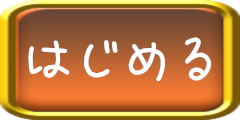
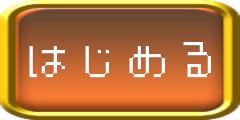
スタートボタンを作成

diff --git a/src/scenes/Title.ts b/src/scenes/Title.ts
@@ -1,16 +1,17 @@
 import { GameObjects, Scene } from 'phaser';
 import { H, W } from 'functions/DOM/windowInfo';
 import { sceneKeys } from 'scenes/sceneKeys';
-import { hints } from 'classes/exam';
 import logo from '@/images/titleimage.jpg';
 import button from '@/images/button.png';
 import buttonOnHover from '@/images/button_onhover.png';
 
+import buttonFrame from '@/images/button/button_frame.png';
+import buttonFrameDark from '@/images/button/button_frame_dark.png';
+import buttonNoFrame from '@/images/button/button_noFrame.png';
+import buttonOnClick from '@/images/button/button_onClick.png';
+
 export class Title extends Scene {
-  private backgroundColor: string = '#300000';
-  private backgroundColor2: string = '#BDBDFD';
-  private span: number = 1;
-  private flash: number = 1;
+  private backgroundColor: string = '#111111';
   private button?: GameObjects.Image;
 
   constructor() {
@@ -19,8 +20,9 @@ export class Title extends Scene {
 
   preload() {
     this.load.image('logo', logo);
-    this.load.image('button', button);
-    this.load.image('button_onhover', buttonOnHover);
+    this.load.image('button', buttonFrame);
+    this.load.image('button_onhover', buttonFrameDark);
+    this.load.image('button_onclick', buttonOnClick);
   }
 
   create() {
@@ -37,14 +39,9 @@ export class Title extends Scene {
     this.time.addEvent({
       delay: 3000,
       callback: () => {
-        // this.add.rectangle(0, height - height / 2, width * 10, height, 0x000);
-        this.add.rectangle(0, height, width * 2, 300, 0x000);
         // 座標の中心を指定
         this.button = this.add.image(0, 0, 'button');
-        this.button.setPosition(
-          width - this.button.width,
-          height - this.button.height / 2,
-        );
+        this.button.setPosition(width / 2, height / 2);
         this.button?.setInteractive();
         // ボタンにカーソルが乗った時
         this.button?.on('pointerover', () => {
